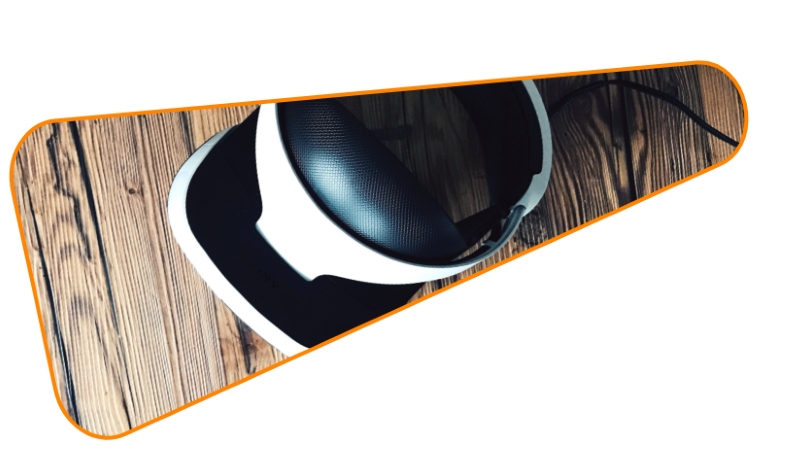
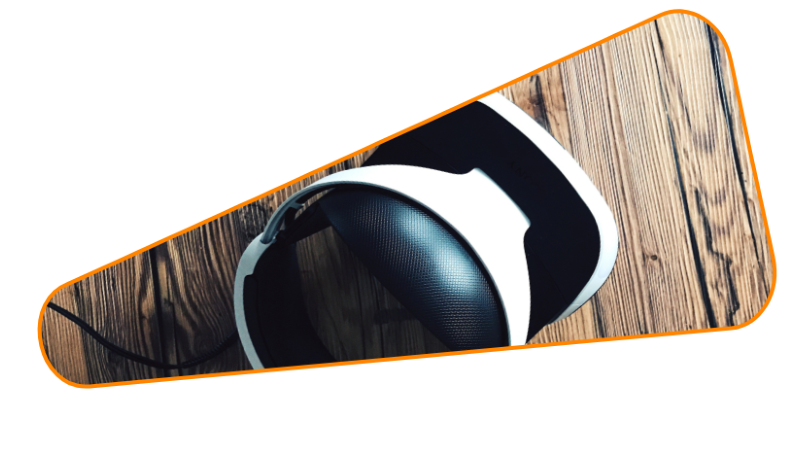
Eleventh commit!
+ Updates the 'Zubehör' page!

diff --git a/zubehör.html b/zubehör.html
@@ -31,8 +31,8 @@
         .Hauptspiel{
 			position: fixed;
 			transform: rotate(2deg);
-			margin-left: 5vw;
-			margin-top: -7vw;
+			margin-left: 6vw;
+			margin-top: -4vw;
 			width: 65vw;
 			transform: scale(0.8);
 			cursor: pointer;
@@ -42,7 +42,7 @@
 			position: relative;
 			transform: rotate(-3deg);
 			margin-left: 28vw;
-			margin-top: -4vw;
+			margin-top: 4vw;
 			width: 62vw;
             transform: scale(0.8);
             cursor: pointer;
@@ -52,7 +52,7 @@
 				position: absolute;
 				font-weight: bold;
 				margin-left: 38vw;
-				margin-top: 8vw;
+				margin-top: 12vw;
 				color: white;
                 font-size: 2vw;
         }
@@ -60,8 +60,8 @@
 		.dlctitle{
 			position: absolute;
 			font-weight: bold;
-			margin-top: -16vw;
-			margin-left: 60vw;
+			margin-top: -15vw;
+			margin-left: 50vw;
 			color: white;
             font-size: 2vw;	
         }
@@ -144,15 +144,15 @@
     </div>
 
     <main>
-<a href="hauptprodukt.html"<div class="mainanimation"><img src="img/maingame.png" grid-area="maingamepic" class="Hauptspiel">
-				<article class="maintitle" grid-area="Haupttitel">
-			Tracker
-		</article></div></a>
-		<a href="dlcs.html"<div class="dlcanimation"><img src="img/ballgame.png" grid-area="balldlcpic" class="BallDLC"/>
-			<article class="dlctitle" grid-area="DLCtitel">
-			Tracking Balls
-	</article></div></a>
-	
+        <a href="hauptprodukt.html"<div class="mainanimation"><img src="img/htc_vive.png" grid-area="maingamepic" class="Hauptspiel">
+        <article class="maintitle" grid-area="Haupttitel">
+        HTC&nbsp;Vive
+        </article></div></a>
+        <a href="dlcs.html"<div class="dlcanimation"><img src="img/trackingball.png" grid-area="balldlcpic" class="BallDLC"/>
+        <article class="dlctitle" grid-area="DLCtitel">
+        Tracking Balls
+        </article></div></a>
+
     </main> 
 
     <footer>
